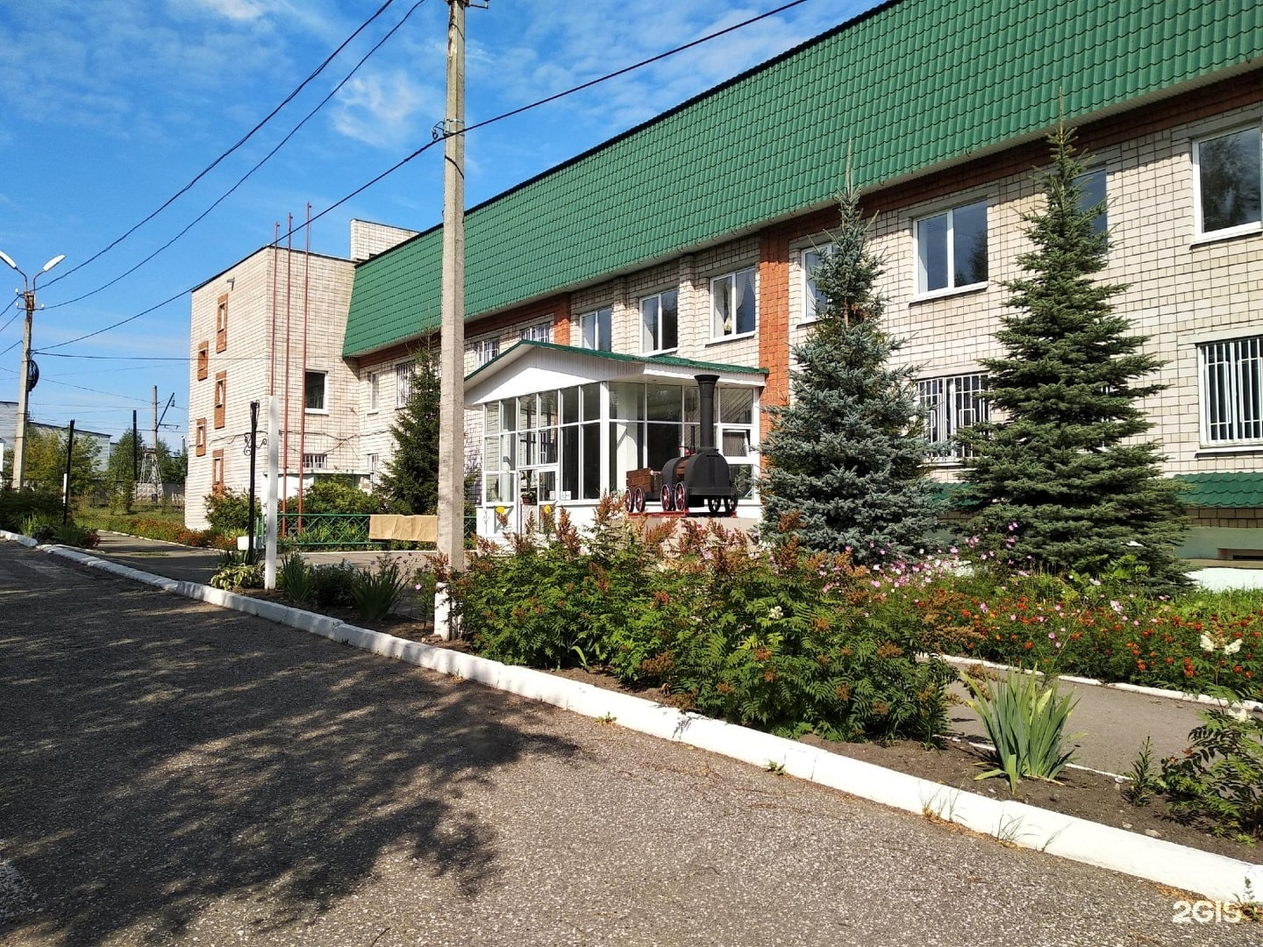
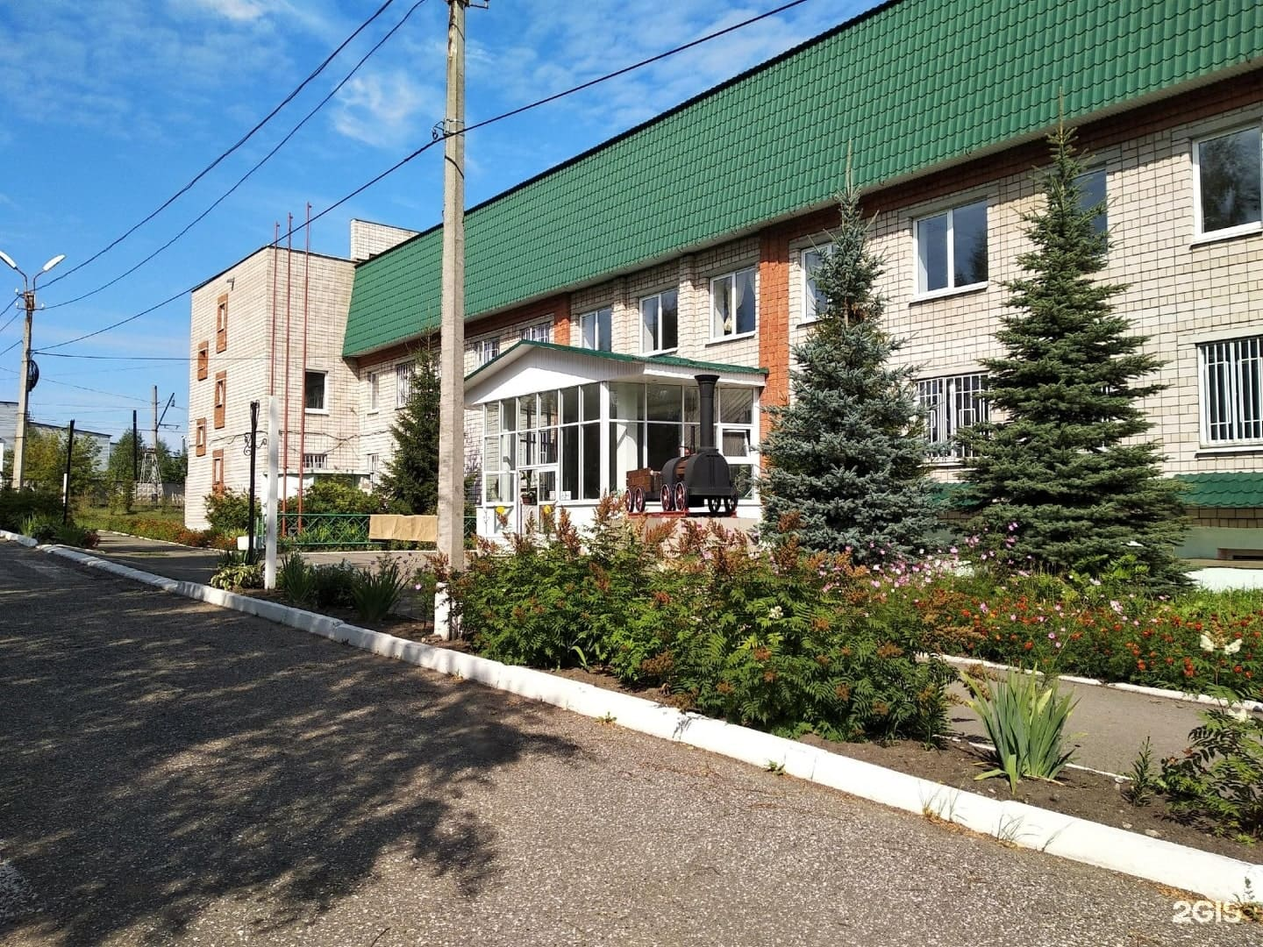
optimization

diff --git a/index-izhevsk.html b/index-izhevsk.html
@@ -65,7 +65,7 @@
                 <div class="modal__item">
                     <!-- Trigger the Modal -->
                     <div class="modal-info">
-                        <img class="myImg" src="assets/img/places/index-0/izh/sobor-svyat.jpg" data-caption="В Ижевске, как и в Москве, есть своя Красная площадь, которую тоже украшает грандиозный собор в русском стиле, освященный во имя Архангела Михаила. Этот святой особо почитался ижевчанами, так как считался покровителем великого князя Михаила Павловича, управлявшего всеми оружейными заводами России в первой половине XIX века, в том числе ижевскими.">
+                        <img class="myImg" src="assets/img/places/index-0/izh/sobor-svyat-min.jpg" data-caption="В Ижевске, как и в Москве, есть своя Красная площадь, которую тоже украшает грандиозный собор в русском стиле, освященный во имя Архангела Михаила. Этот святой особо почитался ижевчанами, так как считался покровителем великого князя Михаила Павловича, управлявшего всеми оружейными заводами России в первой половине XIX века, в том числе ижевскими.">
                         <div class="modal__text">Свято-Михайловский собор</div>
                     </div>
                     <!-- The Modal -->
@@ -79,7 +79,7 @@
                 <div class="modal__item">
                     <!-- Trigger the Modal -->
                     <div class="modal-info">
-                        <img class="myImg" src="assets/img/places/index-0/izh/kozsuh.jpg" data-caption="Чем ещё известен Ижевск, так это мотоциклами «Иж», которые были, пожалуй, в каждом втором гараже в Советском Союзе. Многие из них сегодня пылятся под кучей хлама, хотя раньше были мечтой многих взрослых и подростков. Братья Артем и Павел Кожушковы являются, пожалуй, самыми большими фанатами продукции Ижевского мотозавода, поэтому посвятили много времени поиску и сохранению уникальных мотоциклов.">
+                        <img class="myImg" src="assets/img/places/index-0/izh/kozsuh-min.jpg" data-caption="Чем ещё известен Ижевск, так это мотоциклами «Иж», которые были, пожалуй, в каждом втором гараже в Советском Союзе. Многие из них сегодня пылятся под кучей хлама, хотя раньше были мечтой многих взрослых и подростков. Братья Артем и Павел Кожушковы являются, пожалуй, самыми большими фанатами продукции Ижевского мотозавода, поэтому посвятили много времени поиску и сохранению уникальных мотоциклов.">
                         <div class="modal__text">Ижевский мотомузей Кожушковых</div>
                     </div>
                     <!-- The Modal -->
@@ -93,7 +93,7 @@
                 <div class="modal__item">
                     <!-- Trigger the Modal -->
                     <div class="modal-info">
-                        <img class="myImg" src="assets/img/places/index-0/izh/dram.jpg" data-caption="Первый театральный сезон в Государственном русском драматическом театре стартовал в сентябре 1935 года. В труппу вошли актеры из московских и провинциальных театров, а премьерным показом стал спектакль по пьесе «Аристократы» Николая Погодина. В 1941 здание театра сгорело, а вскоре началась война, но театральная труппа продолжила свои выступления, гастролируя по госпиталям, фабрикам, заводам и колхозам.">
+                        <img class="myImg" src="assets/img/places/index-0/izh/dram-min.jpg" data-caption="Первый театральный сезон в Государственном русском драматическом театре стартовал в сентябре 1935 года. В труппу вошли актеры из московских и провинциальных театров, а премьерным показом стал спектакль по пьесе «Аристократы» Николая Погодина. В 1941 здание театра сгорело, а вскоре началась война, но театральная труппа продолжила свои выступления, гастролируя по госпиталям, фабрикам, заводам и колхозам.">
                         <div class="modal__text">Государственный русский драматический театр Удмуртии</div>
                     </div>
                     <!-- The Modal -->
@@ -107,7 +107,7 @@
                 <div class="modal__item">
                     <!-- Trigger the Modal -->
                     <div class="modal-info">
-                        <img class="myImg" src="assets/img/places/index-0/izh/izhmash.jpg" data-caption="Считается, что оружейный музей «Ижмаша» начал своё существование примерно через 20 лет после основания завода. Тогда была создана школа арсенальных учеников, при которой работала выставка оружия и инструментов. В то время в коллекции можно было увидеть двуствольные ружья, охотничьи штуцеры, револьверы и многое другое. Рядом с музеем установлен памятник, посвященный ижевским оружейникам. На постаменте выгравированы имена людей, сделавших значительный вклад в развитие вооружения России, а сама скульптура представляет собой двух безымянных оружейников.">
+                        <img class="myImg" src="assets/img/places/index-0/izh/izhmash-min.jpg" data-caption="Считается, что оружейный музей «Ижмаша» начал своё существование примерно через 20 лет после основания завода. Тогда была создана школа арсенальных учеников, при которой работала выставка оружия и инструментов. В то время в коллекции можно было увидеть двуствольные ружья, охотничьи штуцеры, револьверы и многое другое. Рядом с музеем установлен памятник, посвященный ижевским оружейникам. На постаменте выгравированы имена людей, сделавших значительный вклад в развитие вооружения России, а сама скульптура представляет собой двух безымянных оружейников.">
                         <div class="modal__text">Музей завода «Ижмаш» и Памятник ижевским оружейникам</div>
                     </div>
                     <!-- The Modal -->
@@ -121,7 +121,7 @@
                 <div class="modal__item">
                     <!-- Trigger the Modal -->
                     <div class="modal-info">
-                        <img class="myImg" src="assets/img/places/index-0/izh/muzey-min.jpg" data-caption="Когда, прогуливаясь по Ижевску, вы увидите скульптуры мужчины с воодушевленными глазами, сидящего на камне, то знайте, что перед вами поэт, этнограф и общественный деятель Кузебай Герд. Рядом с памятником расположен Национальный музей Удмуртской Республики, где Герд работал директором в 1926 году, и который сейчас носит его имя. Фонды музея насчитывают свыше 200 тыс. экспонатов в различных коллекциях, посвященных природе края, его истории и культуре: археологические находки, старинные книжные издания, произведения искусства, монеты, национальные костюмы, бытовые предметы, холодное и огнестрельное оружие.">
+                        <img class="myImg" src="assets/img/places/index-0/izh/muzey-min-min.jpg" data-caption="Когда, прогуливаясь по Ижевску, вы увидите скульптуры мужчины с воодушевленными глазами, сидящего на камне, то знайте, что перед вами поэт, этнограф и общественный деятель Кузебай Герд. Рядом с памятником расположен Национальный музей Удмуртской Республики, где Герд работал директором в 1926 году, и который сейчас носит его имя. Фонды музея насчитывают свыше 200 тыс. экспонатов в различных коллекциях, посвященных природе края, его истории и культуре: археологические находки, старинные книжные издания, произведения искусства, монеты, национальные костюмы, бытовые предметы, холодное и огнестрельное оружие.">
                         <div class="modal__text">Национальный музей имени Кузебая Герда</div>
                     </div>
                     <!-- The Modal -->
@@ -135,7 +135,7 @@
                 <div class="modal__item">
                     <!-- Trigger the Modal -->
                     <div class="modal-info">
-                        <img class="myImg" src="assets/img/places/index-0/izh/cp.jpg" data-caption="Одна из архитектурных доминант Центральной площади — это здание Государственного театра оперы и балета им. П. И. Чайковского. Сам театр был основан ещё в 1931 году, а современное здание построили в 1984. Сцена здесь оборудована всем современным концертным оборудованием, а зал способен вместить свыше 800 человек.">
+                        <img class="myImg" src="assets/img/places/index-0/izh/cp-min.jpg" data-caption="Одна из архитектурных доминант Центральной площади — это здание Государственного театра оперы и балета им. П. И. Чайковского. Сам театр был основан ещё в 1931 году, а современное здание построили в 1984. Сцена здесь оборудована всем современным концертным оборудованием, а зал способен вместить свыше 800 человек.">
                         <div class="modal__text">Театр оперы и балета имени П. И. Чайковского</div>
                     </div>
                     <!-- The Modal -->
@@ -149,7 +149,7 @@
                 <div class="modal__item">
                     <!-- Trigger the Modal -->
                     <div class="modal-info">
-                        <img class="myImg" src="assets/img/places/index-0/izh/serafim.jpg" data-caption="Ещё один молодой храм в традиционном русском стиле — это церковь в честь преподобного Серафима Саровского. Её строительство стартовало в 2008 году по инициативе небольшой религиозной общины, а помощь в постройке оказали крупные ижевские предприятия. Участие в сборе пожертвований и самих строительных работах принимали простые прихожане, поэтому храму Серафима Саровского вполне можно присвоить звание «народного».">
+                        <img class="myImg" src="assets/img/places/index-0/izh/serafim-min.jpg" data-caption="Ещё один молодой храм в традиционном русском стиле — это церковь в честь преподобного Серафима Саровского. Её строительство стартовало в 2008 году по инициативе небольшой религиозной общины, а помощь в постройке оказали крупные ижевские предприятия. Участие в сборе пожертвований и самих строительных работах принимали простые прихожане, поэтому храму Серафима Саровского вполне можно присвоить звание «народного».">
                         <div class="modal__text">Храм в честь Серафима Саровского</div>
                     </div>
                     <!-- The Modal -->
@@ -163,7 +163,7 @@
                 <div class="modal__item">
                     <!-- Trigger the Modal -->
                     <div class="modal-info">
-                        <img class="myImg" src="assets/img/places/index-0/izh/krokod.jpg" data-caption="Крокодил — особенное для Ижевска животное, и на то есть несколько причин. Ещё в XIX веке среди местных жителей ходила легенда, освещавшаяся даже в газетах, о том, что в реках Карлутка и Подборенка якобы обитали крокодилы. Кроме того, заводские мастеровые, удостаивавшиеся за свою работу долгополых зелёных кафтанов и цилиндров, чем-то напоминали крокодилов. Именно из-за этого образом для памятника и был выбран крокодил, который должен был стать неофициальным символом Ижевска и, как отмечали авторы проекта, «очеловечить безликий город»">
+                        <img class="myImg" src="assets/img/places/index-0/izh/krokod-min.jpg" data-caption="Крокодил — особенное для Ижевска животное, и на то есть несколько причин. Ещё в XIX веке среди местных жителей ходила легенда, освещавшаяся даже в газетах, о том, что в реках Карлутка и Подборенка якобы обитали крокодилы. Кроме того, заводские мастеровые, удостаивавшиеся за свою работу долгополых зелёных кафтанов и цилиндров, чем-то напоминали крокодилов. Именно из-за этого образом для памятника и был выбран крокодил, который должен был стать неофициальным символом Ижевска и, как отмечали авторы проекта, «очеловечить безликий город»">
                         <div class="modal__text">Памятник крокодилу</div>
                     </div>
                     <!-- The Modal -->
@@ -191,7 +191,7 @@
                 <div class="modal__item">
                     <!-- Trigger the Modal -->
                     <div class="modal-info">
-                        <img class="myImg" src="assets/img/places/index-0/izh/druzhb.jpg" data-caption="«Дружба народов» (также употребляется название «Навеки с Россией») — монумент, посвящённый 400-летию вхождения Удмуртии в состав России, открытый в 1972 году. Символ столицы Удмуртской республики — города Ижевска — и всей республики в целом. Монумент облицован нержавеющей сталью и имеет внушительную высоту — 46 метров.">
+                        <img class="myImg" src="assets/img/places/index-0/izh/druzhb-min.jpg" data-caption="«Дружба народов» (также употребляется название «Навеки с Россией») — монумент, посвящённый 400-летию вхождения Удмуртии в состав России, открытый в 1972 году. Символ столицы Удмуртской республики — города Ижевска — и всей республики в целом. Монумент облицован нержавеющей сталью и имеет внушительную высоту — 46 метров.">
                         <div class="modal__text">Монумент «Дружба народов»</div>
                     </div>
                     <!-- The Modal -->
@@ -205,7 +205,7 @@
                 <div class="modal__item">
                     <!-- Trigger the Modal -->
                     <div class="modal-info">
-                        <img class="myImg" src="assets/img/places/index-0/izh/ludor.jpg" data-caption="Решение создать музей-заповедник «Лудорвай» появилось ещё в первой половине восьмидесятых, но открылся музей лишь в 1997 году. Что из себя представляет «Лудоврай»? — Это крупный этнографический комплекс, посвященный быту, культуре и архитектуре народов Удмуртии. Музей разделен на несколько секций, посвященных удмуртам, татарам и русским. Эти секции представляют собой мини-села, в подобных которым жили представители этих народностей в XIX–XX столетиях.">
+                        <img class="myImg" src="assets/img/places/index-0/izh/ludor-min.jpg" data-caption="Решение создать музей-заповедник «Лудорвай» появилось ещё в первой половине восьмидесятых, но открылся музей лишь в 1997 году. Что из себя представляет «Лудоврай»? — Это крупный этнографический комплекс, посвященный быту, культуре и архитектуре народов Удмуртии. Музей разделен на несколько секций, посвященных удмуртам, татарам и русским. Эти секции представляют собой мини-села, в подобных которым жили представители этих народностей в XIX–XX столетиях.">
                         <div class="modal__text">Музей-заповедник Лудорвай (15 км от Ижевска)</div>
                     </div>
                     <!-- The Modal -->
@@ -219,7 +219,7 @@
                 <div class="modal__item">
                     <!-- Trigger the Modal -->
                     <div class="modal-info">
-                        <img class="myImg" src="assets/img/places/index-0/izh/kukol.jpg" data-caption="Кукольный театр в Ижевске появился в 1920-е годы благодаря усилиям актрис Точиловой и Ижевской, прошедших обучение в московском ВУЗе. В годы войны мужчины из числа актеров ушли на фронт, а женщины продолжали гастролировать со спектаклями, поднимая дух бойцов и работников военной промышленности.">
+                        <img class="myImg" src="assets/img/places/index-0/izh/kukol-min.jpg" data-caption="Кукольный театр в Ижевске появился в 1920-е годы благодаря усилиям актрис Точиловой и Ижевской, прошедших обучение в московском ВУЗе. В годы войны мужчины из числа актеров ушли на фронт, а женщины продолжали гастролировать со спектаклями, поднимая дух бойцов и работников военной промышленности.">
                         <div class="modal__text">Кукольный театр</div>
                     </div>
                     <!-- The Modal -->

diff --git a/index-votkinsk.html b/index-votkinsk.html
@@ -65,7 +65,7 @@
                 <div class="modal__item">
                     <!-- Trigger the Modal -->
                     <div class="modal-info">
-                        <img class="myImg" src="assets/img/places/index-0/vot/prud.jpg" data-caption="Создан на реке Вотка в 1759 году. Огромный искусственный водоём занимает 1800 гектаров и имеет длину порядка 12 километров. Является визитной карточкой города и одним из самых живописных мест.">
+                        <img class="myImg" src="assets/img/places/index-0/vot/prud-min.jpg" data-caption="Создан на реке Вотка в 1759 году. Огромный искусственный водоём занимает 1800 гектаров и имеет длину порядка 12 километров. Является визитной карточкой города и одним из самых живописных мест.">
                         <div class="modal__text">Воткинский пруд</div>
                     </div>
                     <!-- The Modal -->
@@ -79,7 +79,7 @@
                 <div class="modal__item">
                     <!-- Trigger the Modal -->
                     <div class="modal-info">
-                        <img class="myImg" src="assets/img/places/index-0/vot/allea.jpg" data-caption="Открытые аллеи было приурочено к 75-летию со дня окончания ВОВ. Состоит она из 13 плит с именами погибших, признанных Героями Советского Союза, обелиска и Вечного огня.">
+                        <img class="myImg" src="assets/img/places/index-0/vot/allea-min.jpg" data-caption="Открытые аллеи было приурочено к 75-летию со дня окончания ВОВ. Состоит она из 13 плит с именами погибших, признанных Героями Советского Союза, обелиска и Вечного огня.">
                         <div class="modal__text">Аллея Славы</div>
                     </div>
                     <!-- The Modal -->
@@ -93,7 +93,7 @@
                 <div class="modal__item">
                     <!-- Trigger the Modal -->
                     <div class="modal-info">
-                        <img class="myImg" src="assets/img/places/index-0/vot/naberezn.jpg" data-caption="Прекрасная набережная с красивыми видами, памятниками и арт-объектами, смотровой площадкой, многочисленными лавочками и широколиственными деревьями является любимым местом для прогулок.">
+                        <img class="myImg" src="assets/img/places/index-0/vot/naberezn-min.jpg" data-caption="Прекрасная набережная с красивыми видами, памятниками и арт-объектами, смотровой площадкой, многочисленными лавочками и широколиственными деревьями является любимым местом для прогулок.">
                         <div class="modal__text">Набережная</div>
                     </div>
                     <!-- The Modal -->
@@ -107,7 +107,7 @@
                 <div class="modal__item">
                     <!-- Trigger the Modal -->
                     <div class="modal-info">
-                        <img class="myImg" src="assets/img/places/index-0/vot/ostrov.jpg" data-caption="Действительно красивый и достойный пляж. Здесь можно взять в аренду зонтики и шезлонги, покататься на катамаранах и водных мотоциклах, посетить уютные кафе и спортивные площадки.">
+                        <img class="myImg" src="assets/img/places/index-0/vot/ostrov-min.jpg" data-caption="Действительно красивый и достойный пляж. Здесь можно взять в аренду зонтики и шезлонги, покататься на катамаранах и водных мотоциклах, посетить уютные кафе и спортивные площадки.">
                         <div class="modal__text">Пляж «Остров»</div>
                     </div>
                     <!-- The Modal -->
@@ -121,7 +121,7 @@
                 <div class="modal__item">
                     <!-- Trigger the Modal -->
                     <div class="modal-info">
-                        <img class="myImg" src="assets/img/places/index-0/vot/istandkult.jpg" data-caption="Основан в 1968 году. Музей преимущественно посвящён концу 19 и началу 20 века. В нём можно узнать всё о традициях, быте, культуре, этнографии и природе края.">
+                        <img class="myImg" src="assets/img/places/index-0/vot/istandkult-min.jpg" data-caption="Основан в 1968 году. Музей преимущественно посвящён концу 19 и началу 20 века. В нём можно узнать всё о традициях, быте, культуре, этнографии и природе края.">
                         <div class="modal__text">Музей истории и культуры Воткинска</div>
                     </div>
                     <!-- The Modal -->
@@ -135,7 +135,7 @@
                 <div class="modal__item">
                     <!-- Trigger the Modal -->
                     <div class="modal-info">
-                        <img class="myImg" src="assets/img/places/index-0/vot/ysadba.jpg" data-caption="Открытие музея состоялось в 1940 году в честь дня рождения композитора. Здание для выставки было выбрано неспроста, ведь именно в этом доме провёл детство Пётр Ильич Чайковский. В особняке сохранили дворянский интерьер 19 века, личные вещи и предметы быта.">
+                        <img class="myImg" src="assets/img/places/index-0/vot/ysadba-min.jpg" data-caption="Открытие музея состоялось в 1940 году в честь дня рождения композитора. Здание для выставки было выбрано неспроста, ведь именно в этом доме провёл детство Пётр Ильич Чайковский. В особняке сохранили дворянский интерьер 19 века, личные вещи и предметы быта.">
                         <div class="modal__text">Музей-усадьба П. И. Чайковского</div>
                     </div>
                     <!-- The Modal -->
@@ -149,7 +149,7 @@
                 <div class="modal__item">
                     <!-- Trigger the Modal -->
                     <div class="modal-info">
-                        <img class="myImg" src="assets/img/places/index-0/vot/blagovesh.jpg" data-caption="Возвели в 1928 году. Правда, колокольня была пристроена лишь в 1867. Как и многие другие храмы, этот был отнят у верующих, а здание переоборудовано под кинотеатр, затем под театр и позднее под нужды машиностроительного завода. Лишь в 2001 строение вновь вернули Русской православной церкви.">
+                        <img class="myImg" src="assets/img/places/index-0/vot/blagovesh-min.jpg" data-caption="Возвели в 1928 году. Правда, колокольня была пристроена лишь в 1867. Как и многие другие храмы, этот был отнят у верующих, а здание переоборудовано под кинотеатр, затем под театр и позднее под нужды машиностроительного завода. Лишь в 2001 строение вновь вернули Русской православной церкви.">
                         <div class="modal__text">Благовещенский собор</div>
                     </div>
                     <!-- The Modal -->
@@ -163,7 +163,7 @@
                 <div class="modal__item">
                     <!-- Trigger the Modal -->
                     <div class="modal-info">
-                        <img class="myImg" src="assets/img/places/index-0/vot/chaik.jpg" data-caption="Пётр Ильич Чайковский – выдающийся русский писатель, дирижёр и педагог. Памятник в его честь открыли в 1989 году вблизи дома-музея, в котором он когда-то проживал.">
+                        <img class="myImg" src="assets/img/places/index-0/vot/chaik-min.jpg" data-caption="Пётр Ильич Чайковский – выдающийся русский писатель, дирижёр и педагог. Памятник в его честь открыли в 1989 году вблизи дома-музея, в котором он когда-то проживал.">
                         <div class="modal__text">Памятник П. И. Чайковскому</div>
                     </div>
                     <!-- The Modal -->
